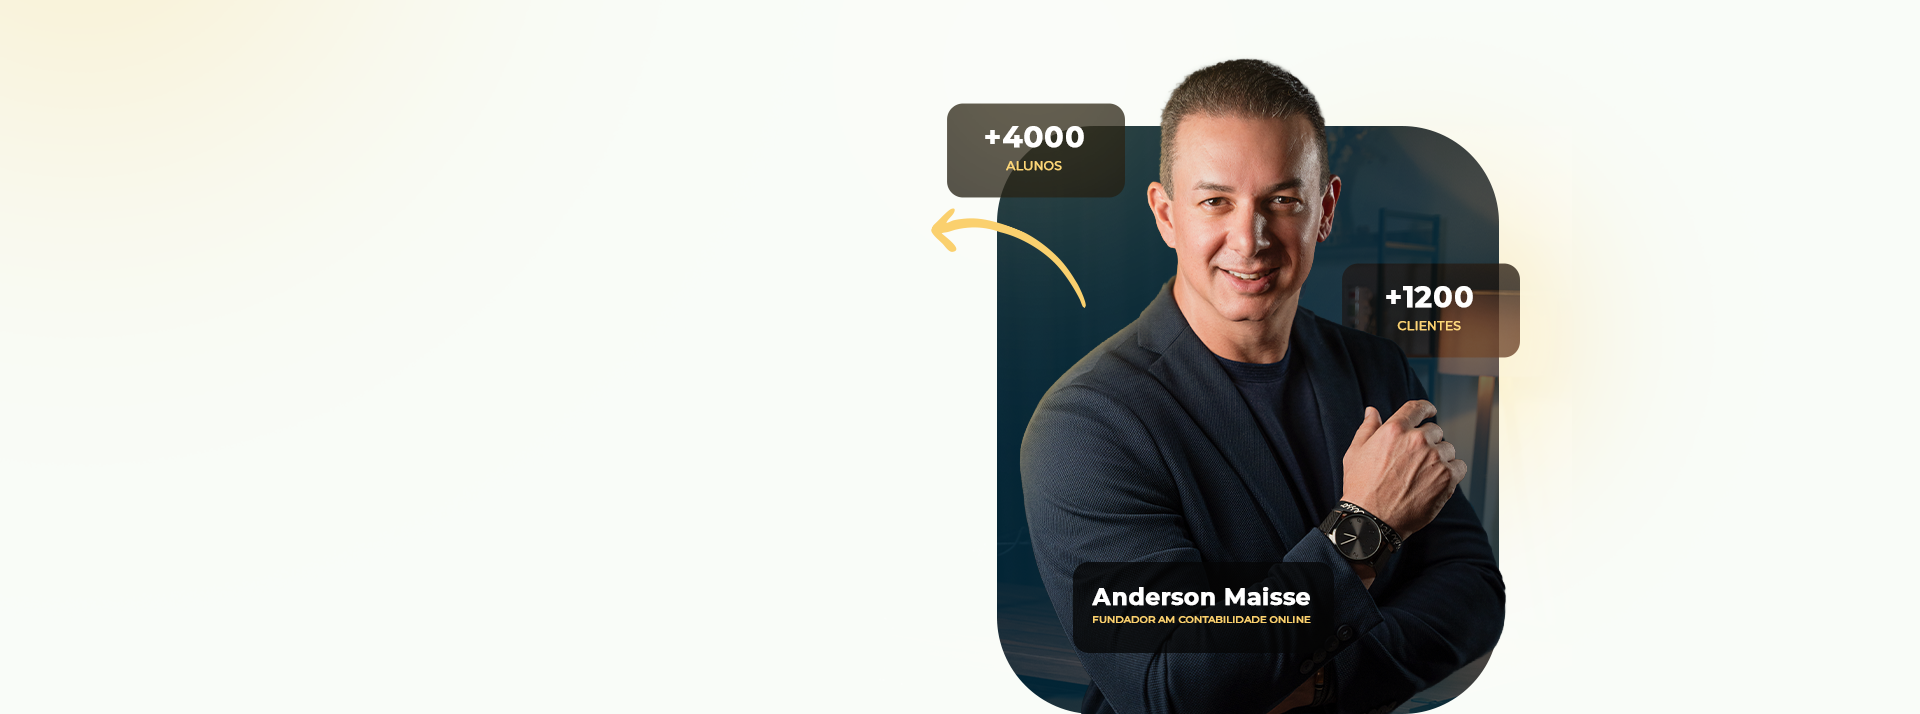
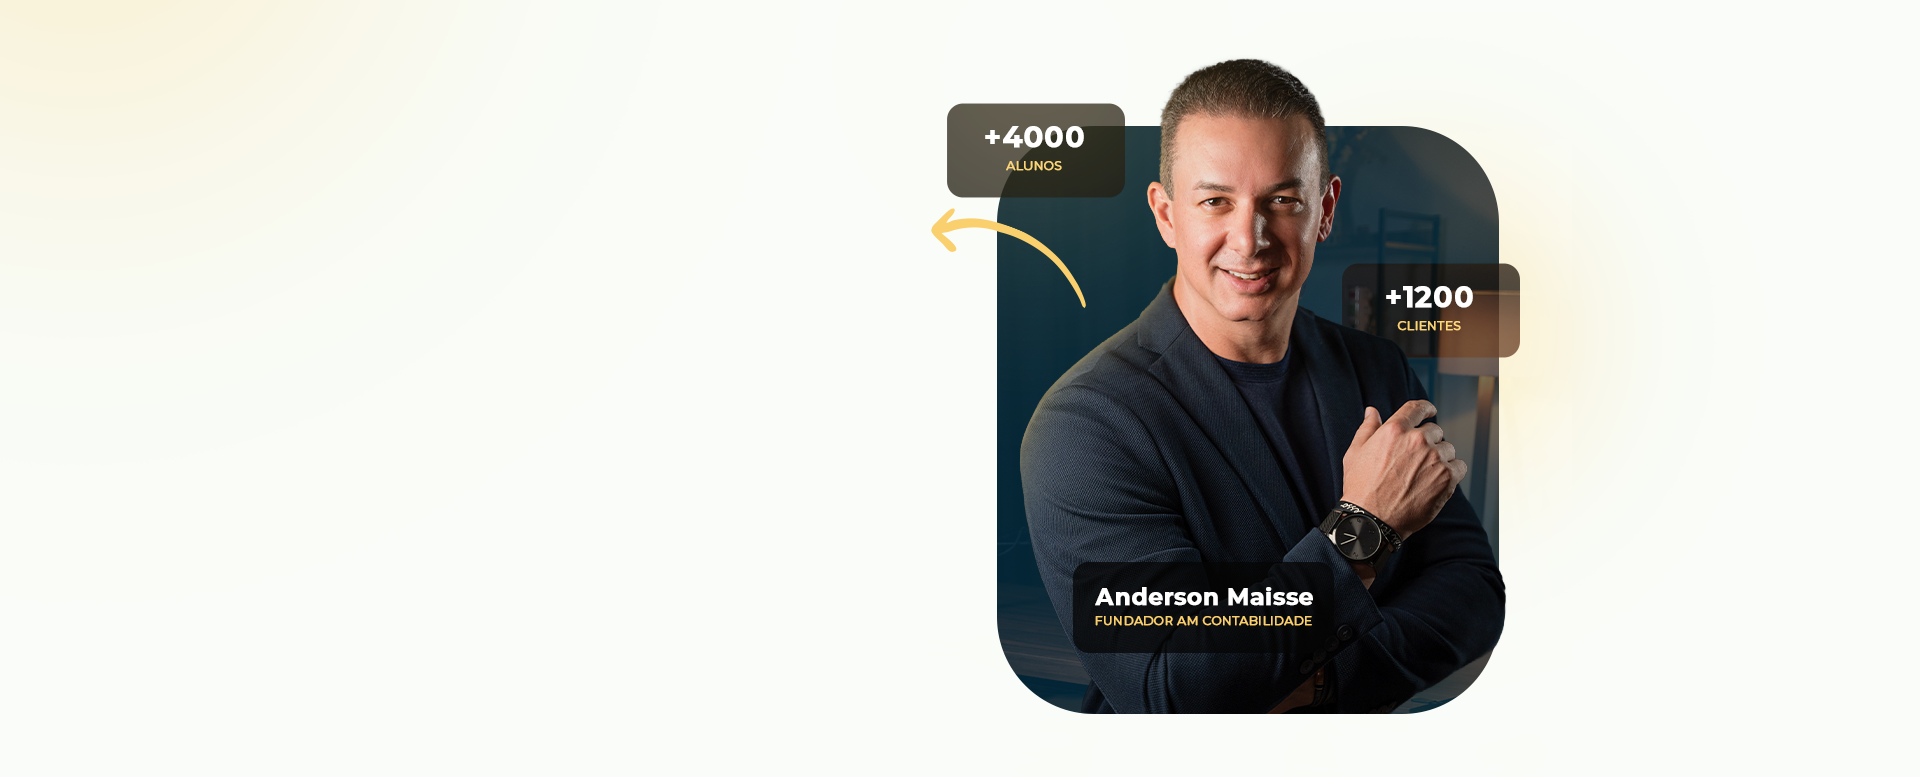
Troca a foto do hero e exibe a imagem inteira, sem corte vertical (#7)
Altura do hero acompanha a proporção da foto (auto 100%) em telas largas.

Claude-Session: https://claude.ai/code/session_018jXGJ2HBhvmn3MmsJvCwAi

Changed region(s): [[0.4688, 0.0616, 0.8125, 1.0], [0.75, 0.1849, 0.7812, 0.2465]]

diff --git a/src/styles.css b/src/styles.css
@@ -300,16 +300,19 @@
 @media (min-width: 768px) and (max-width: 1199px) {
   .theme-light .home-hero {
     background-size: 100% 90px, auto 480px;
-    background-position: 0 calc(100% - 390px), 80% bottom;
+    background-position: 0 calc(100% - 390px), 90% bottom;
     padding-bottom: 490px;
   }
 }
 @media (min-width: 1200px) {
   .theme-light .home-hero {
-    min-height: 40rem;
+    /* altura acompanha a proporção da foto (1920x777) para ela aparecer inteira, sem corte em cima/embaixo */
+    display: flex;
+    align-items: center;
+    min-height: max(40rem, 40.47vw);
     background-image: var(--hero-bg-desktop);
-    background-size: cover;
-    background-position: 45% 20%;
+    background-size: auto 100%;
+    background-position: 10% center;
     padding-top: 2.5rem;
     padding-bottom: 2.5rem;
   }
